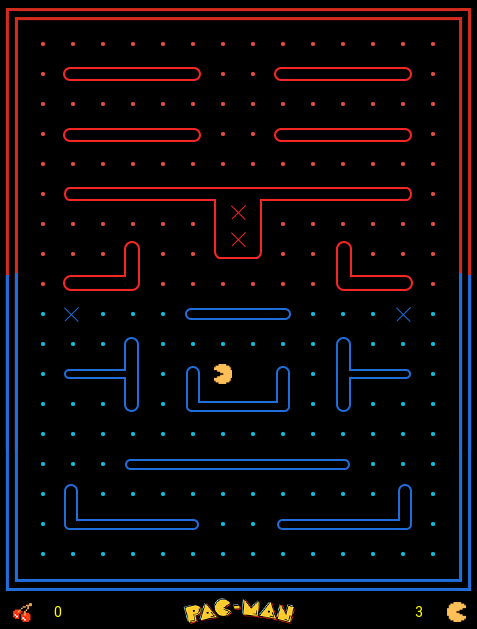
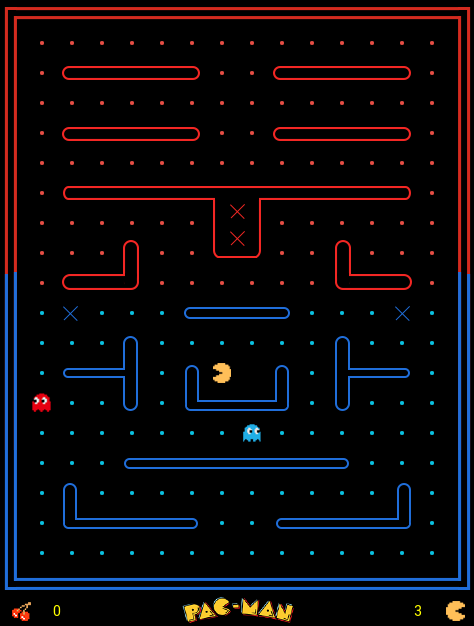
Winner and gamover

diff --git a/main.cpp b/main.cpp
@@ -9,6 +9,8 @@ using namespace std;
 
 void randomGhost(Enemy&, char map[][17]);
 
+bool compareGhostPac(Enemy&, Pac&);
+
 int main(const int argc, const char *argv[])
 {
 	srand (time(NULL));
@@ -160,7 +162,21 @@ int main(const int argc, const char *argv[])
 
 	life_btn.setIconX(443.0);
 
-	// Game Loop
+	// Winner & Game Over
+
+	Btn gameover, winner;
+
+	winner.setIcon("images/winner.png");
+	
+	winner.setIconX(115.0);
+
+	winner.setIconY(180.0);
+
+	gameover.setIcon("images/gameover.png");
+
+	gameover.setIconX(115.0);
+
+	gameover.setIconY(180.0);
 
 	// Enemy
 
@@ -186,6 +202,8 @@ int main(const int argc, const char *argv[])
 
 	al_start_timer(timer);
 
+	// Game Loop
+	
 	while (true)
 	{
 		ALLEGRO_EVENT event;
@@ -236,6 +254,46 @@ int main(const int argc, const char *argv[])
 		else if (event.type == ALLEGRO_EVENT_TIMER)
 		{
 			redraw = true;
+
+			// Life
+
+			if(life <= 0) {
+				al_stop_samples();
+
+				al_clear_to_color(al_map_rgb(225,15,36));
+
+				gameover.showIcon();
+
+				al_flip_display();
+
+				al_rest(5.0);
+
+				break;
+			}
+
+			if(points == 164) {
+				al_stop_samples();
+				
+				al_clear_to_color(al_map_rgb(97,207,135));
+
+				winner.showIcon();
+
+				al_flip_display();
+
+				al_rest(5.0);
+
+				break;
+			}
+
+			if(compareGhostPac(enemy_blue, pac) || compareGhostPac(enemy_red, pac)) {
+				life--;
+
+				direction = 0;
+
+				pac.setCharacterCol(7).setCharacterLine(12).setDirection(0);
+			}
+
+			// Pacman
 
 			if (intention == 0 && pac.moveLeft(map))
 				direction = intention;
@@ -310,7 +368,7 @@ int main(const int argc, const char *argv[])
 			// Flush
 			
 			al_flip_display();
-		}	
+		}
 	}
 
 	al_destroy_bitmap(logo_bottom);
@@ -336,7 +394,7 @@ int main(const int argc, const char *argv[])
 	return 0;
 }
 
-void randomGhost(Enemy& enemy_obj, char map[][17]) {
+void randomGhost(Enemy& e_obj, char map[][17]) {
 	bool enemy_loop = true;
 
 	int enemy_random = 0;
@@ -346,8 +404,8 @@ void randomGhost(Enemy& enemy_obj, char map[][17]) {
 		
 		switch(enemy_random) {
 			case 0:
-				if(enemy_obj.moveLeft(map) && enemy_obj.getDirection() != 1) {
-					enemy_obj.setDirection(0);
+				if(e_obj.moveLeft(map) && e_obj.getDirection() != 1) {
+					e_obj.setDirection(0);
 
 					enemy_loop = false;
 				}
@@ -355,8 +413,8 @@ void randomGhost(Enemy& enemy_obj, char map[][17]) {
 				break;
 
 			case 1:
-				if(enemy_obj.moveRight(map) && enemy_obj.getDirection() != 0) {
-					enemy_obj.setDirection(1);
+				if(e_obj.moveRight(map) && e_obj.getDirection() != 0) {
+					e_obj.setDirection(1);
 
 					enemy_loop = false;
 				}
@@ -364,8 +422,8 @@ void randomGhost(Enemy& enemy_obj, char map[][17]) {
 				break;
 
 			case 2:
-				if(enemy_obj.moveUp(map) && enemy_obj.getDirection() != 3) {
-					enemy_obj.setDirection(2);
+				if(e_obj.moveUp(map) && e_obj.getDirection() != 3) {
+					e_obj.setDirection(2);
 
 					enemy_loop = false;
 				}
@@ -373,8 +431,8 @@ void randomGhost(Enemy& enemy_obj, char map[][17]) {
 				break;
 
 			case 3:
-				if(enemy_obj.moveDown(map) && enemy_obj.getDirection() != 2) {
-					enemy_obj.setDirection(3);
+				if(e_obj.moveDown(map) && e_obj.getDirection() != 2) {
+					e_obj.setDirection(3);
 
 					enemy_loop = false;
 				}
@@ -382,4 +440,11 @@ void randomGhost(Enemy& enemy_obj, char map[][17]) {
 				break;
 		}
 	}
+}
+
+bool compareGhostPac(Enemy& e_obj, Pac& p_obj) {
+	if(e_obj.getCharacterCol() == p_obj.getCharacterCol() && e_obj.getCharacterLine() == p_obj.getCharacterLine())
+		return true;
+	
+	return false;
 }
